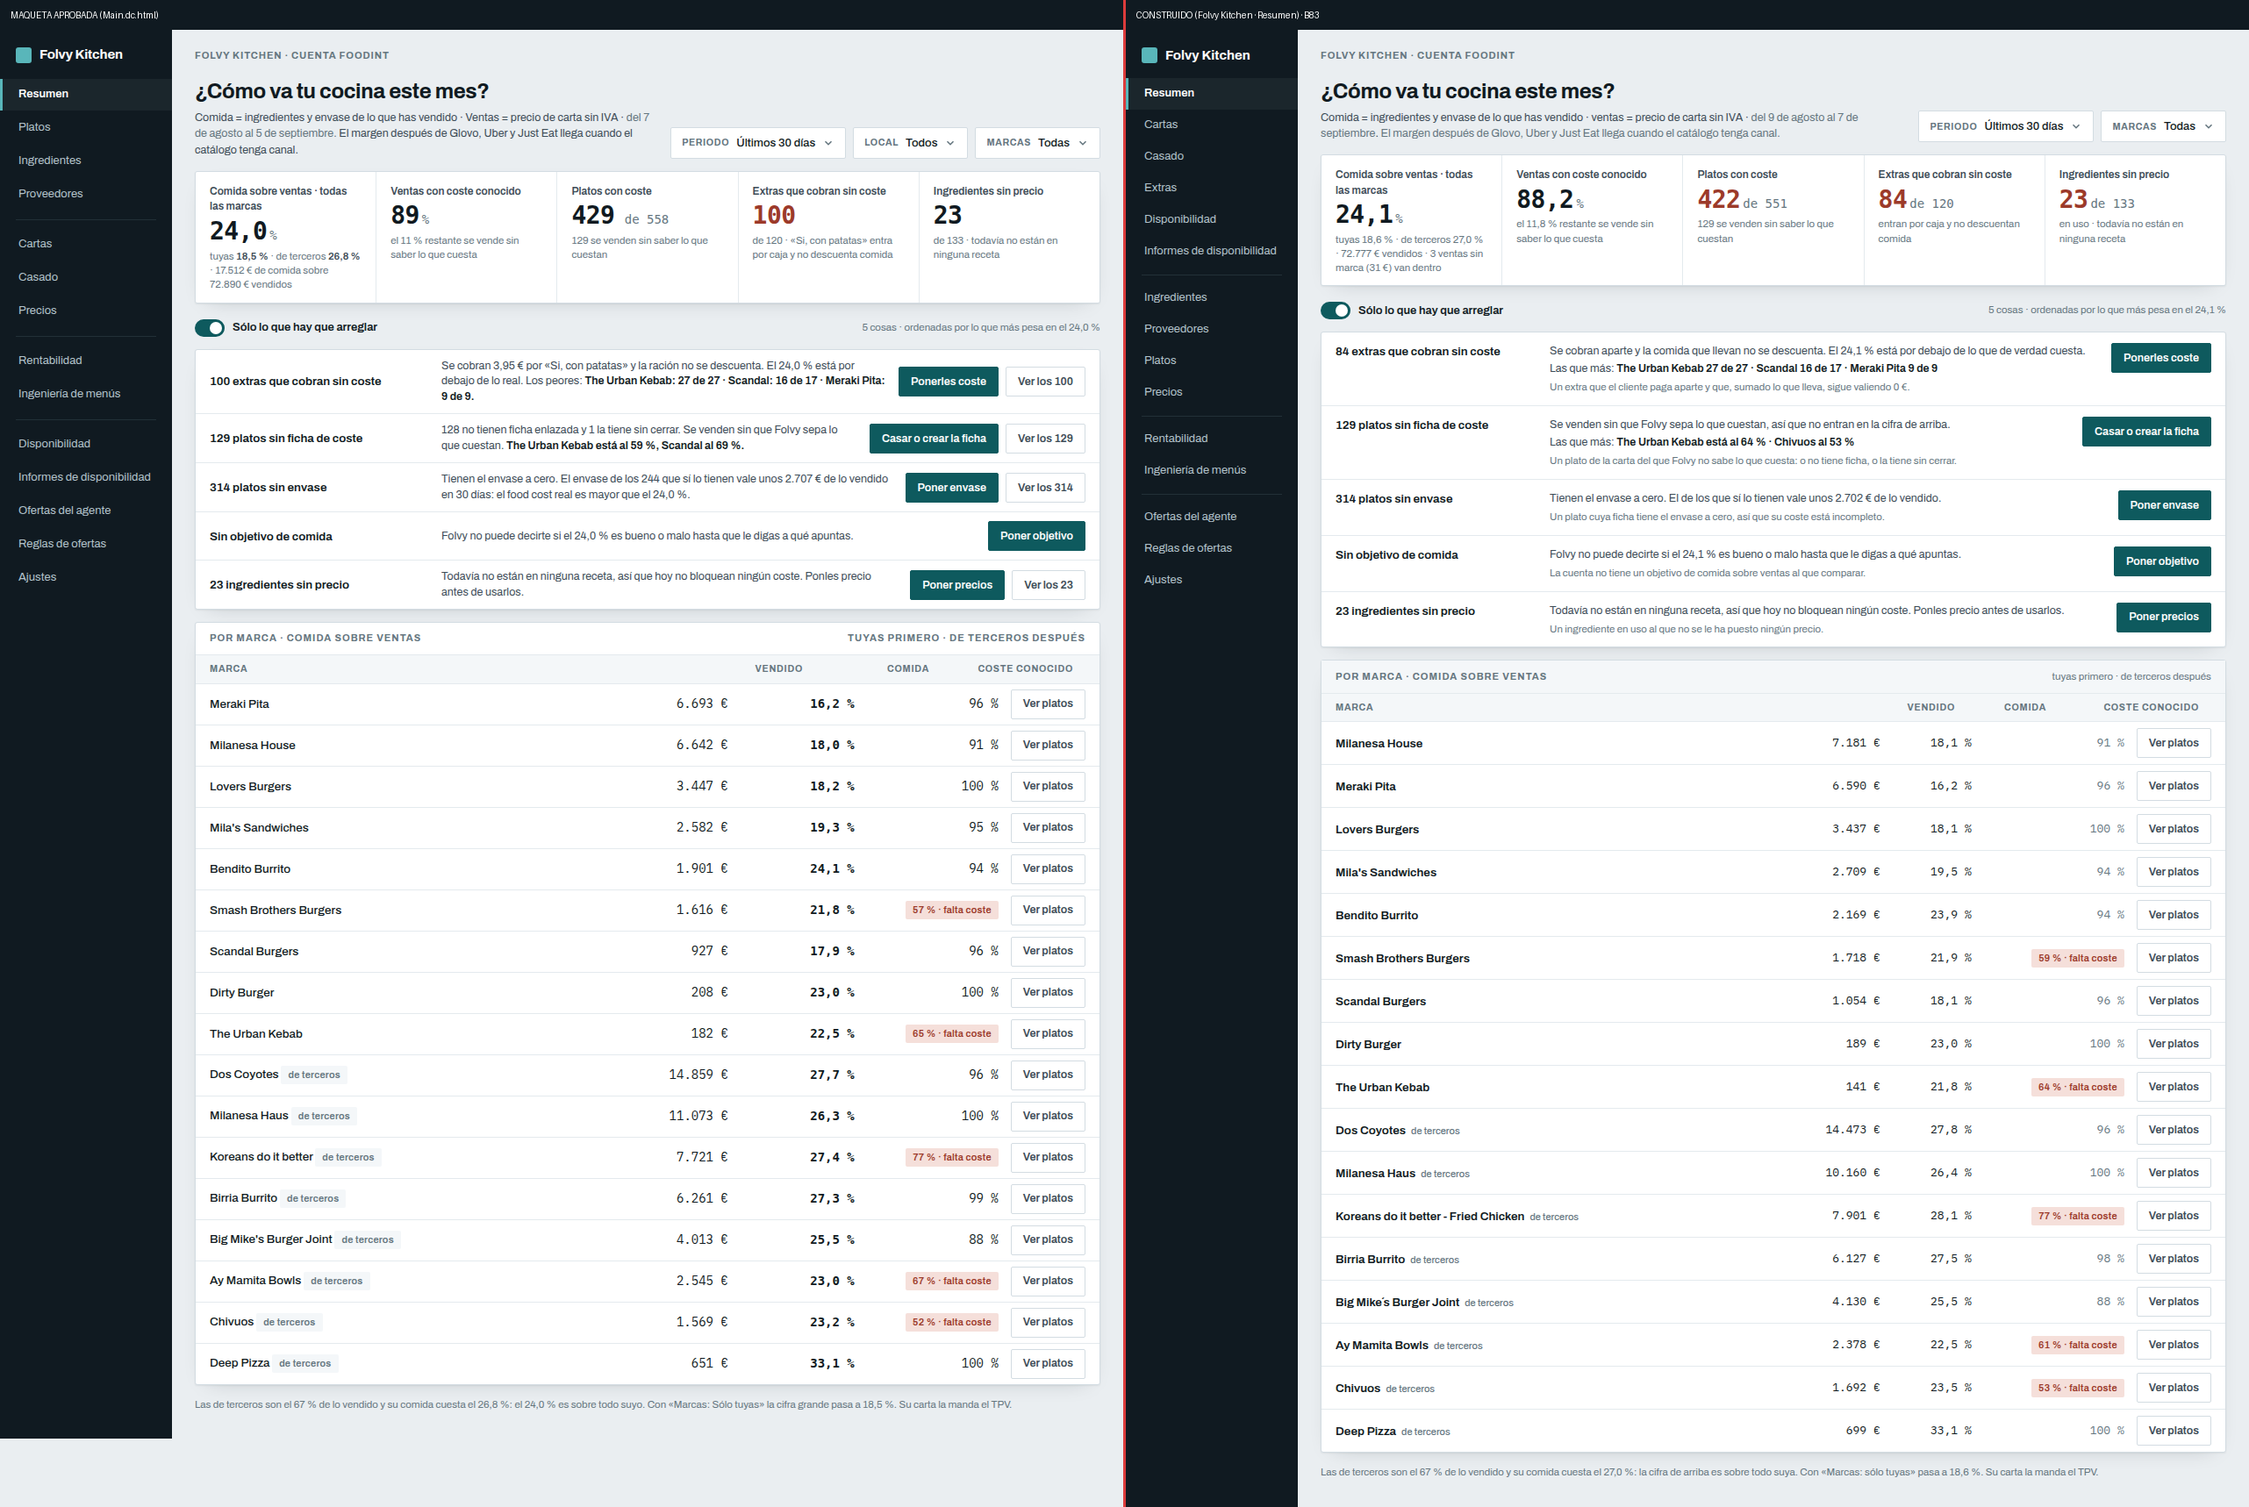
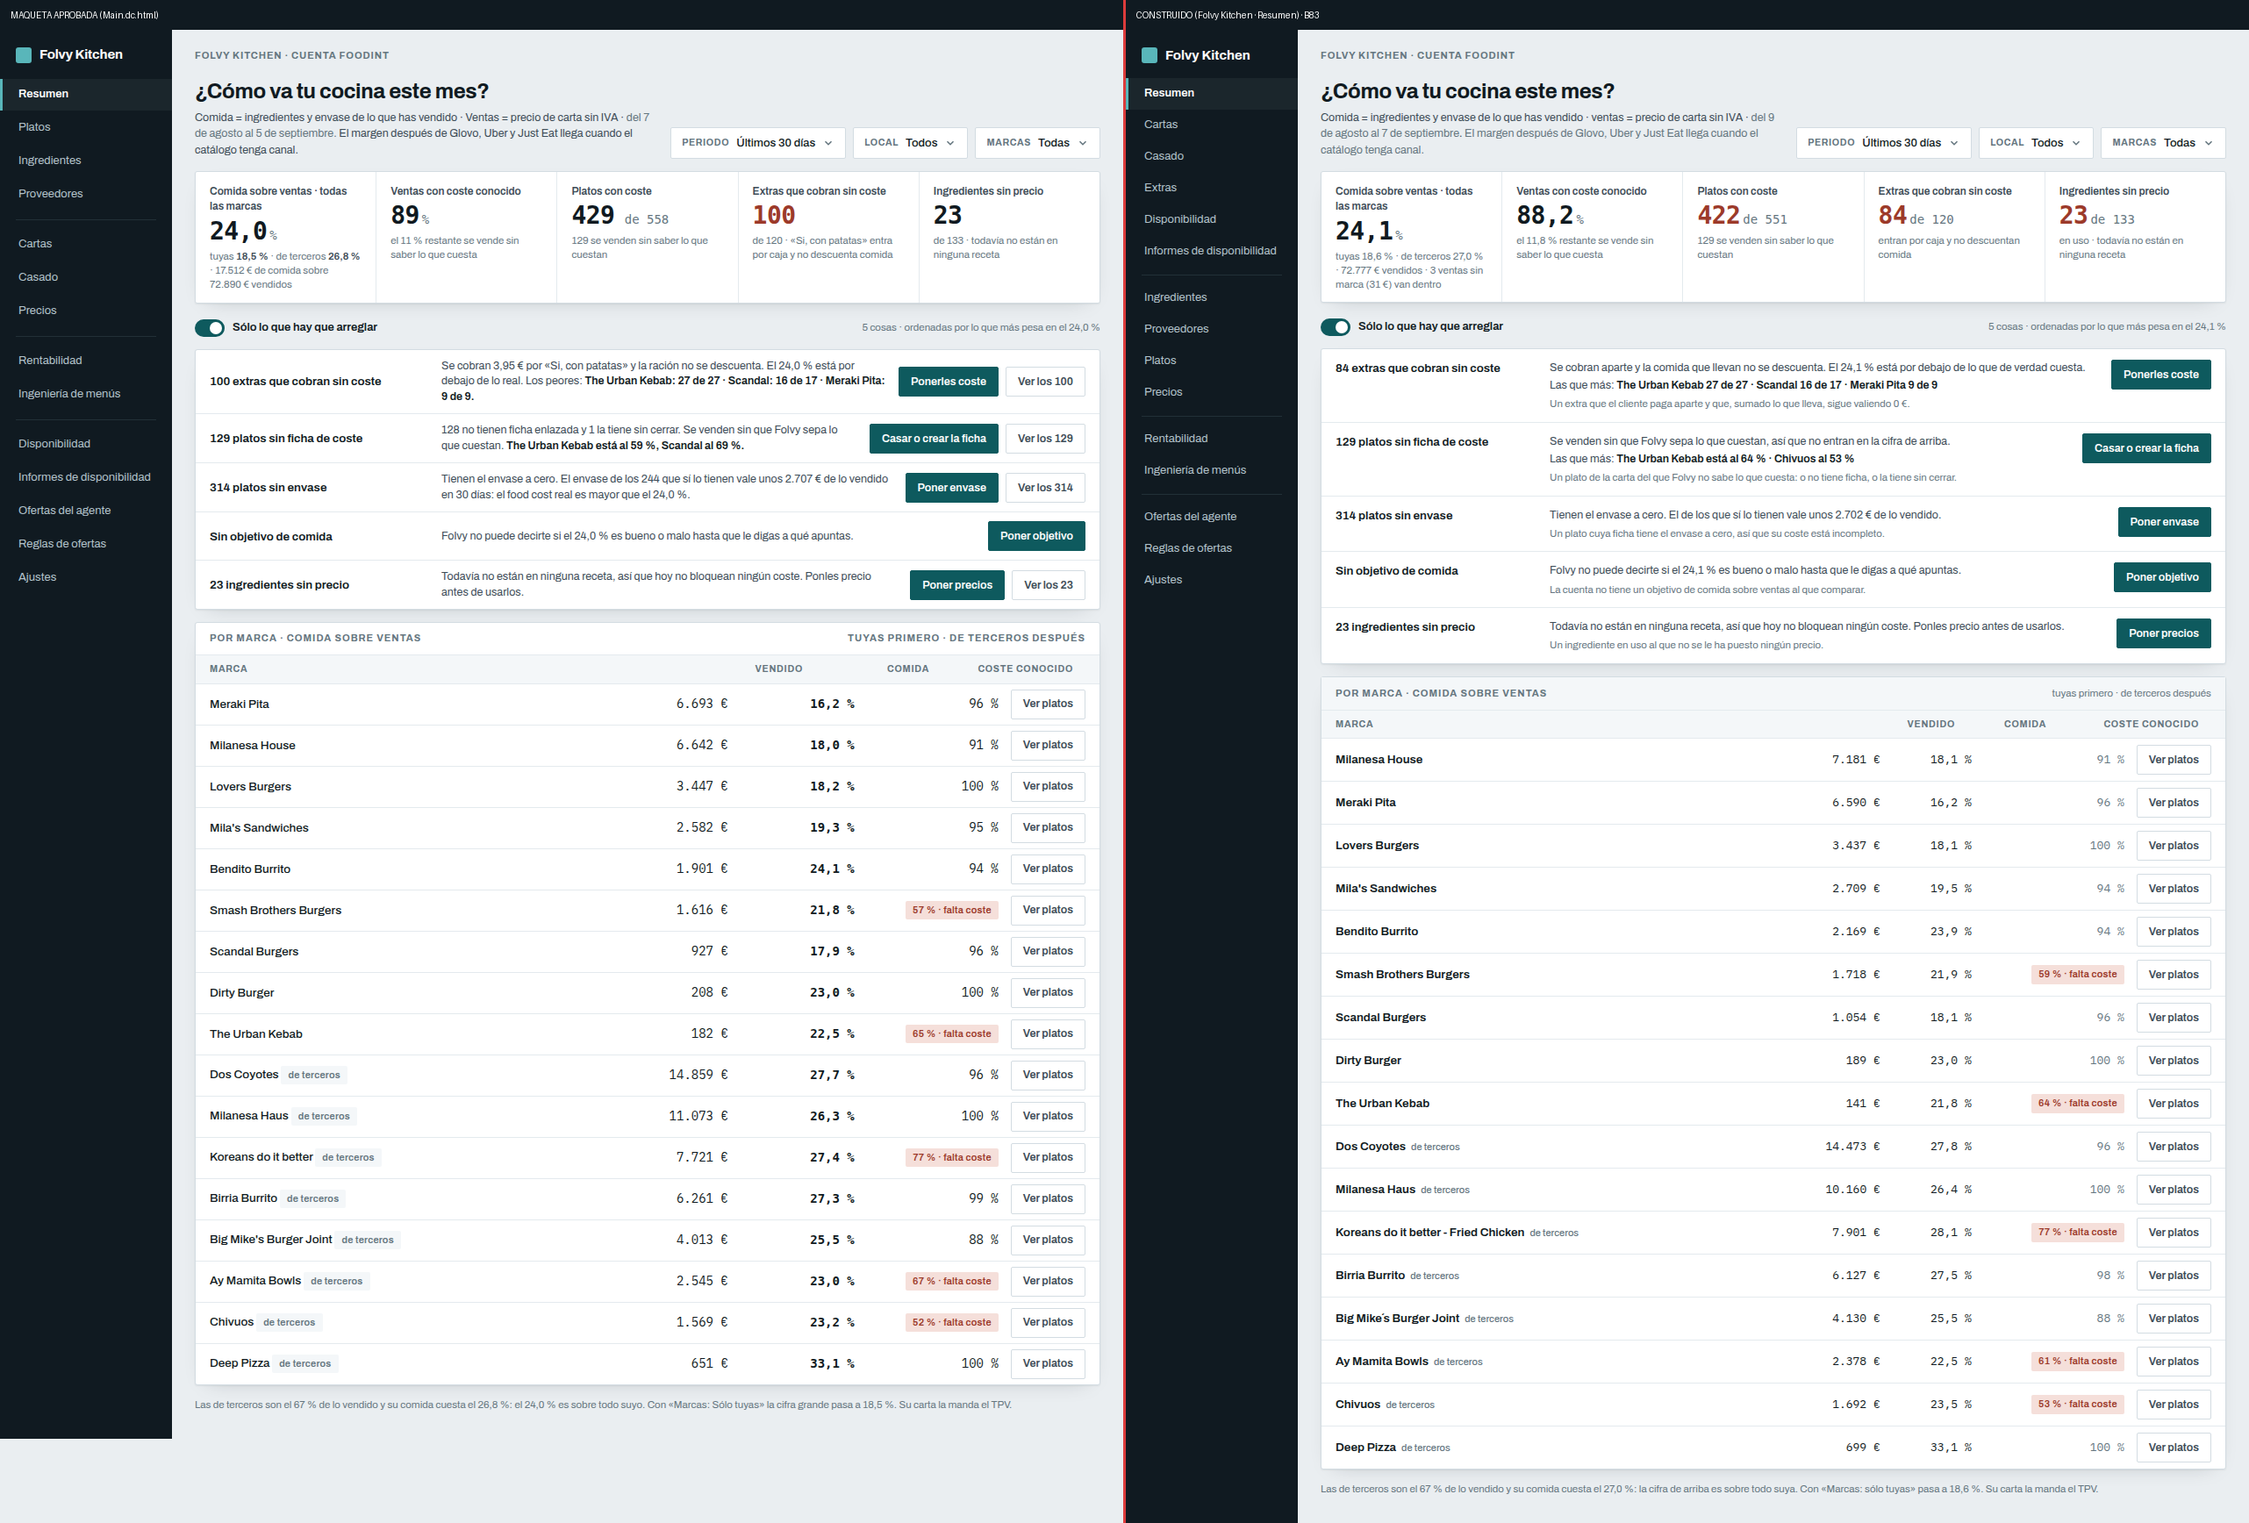
B83 · el selector de Local en el Resumen, cableado y medido
Decisión 1 de Julio (§3.18). Se pinta donde filtra de verdad, y sólo ahí.

MEDIDO ANTES DE CONSTRUIRLO, con dos cifras y la suma (regla 31):
  Todos        72.821 €  ·  24,1 %  ·  88,2 %
  Alcalá       46.192 €  ·  23,6 %  ·  88,7 %
  Carabanchel  26.629 €  ·  24,9 %  ·  87,4 %
46.192 + 26.629 = 72.821. El filtro filtra y la partición cuadra.

LA CONDICIÓN DE JULIO, QUE ES LO IMPORTANTE: lo que no depende del local no
cambia al elegirlo Y LO DICE. `kitchen_catalog_gaps` cuenta CATÁLOGO —un plato
sin ficha lo está en los dos locales— y ni acepta local ni cambiaría si lo
aceptase. Así que al elegir Alcalá, «Platos con coste», «Extras que cobran sin
coste», «Ingredientes sin precio» y las cinco filas añaden «· toda la cuenta».
Sin eso, ver el mismo «422 de 551» se lee como un filtro roto — y quien lo crea
roto dejará de fiarse también de las cifras que sí se han movido. Es la regla 7
del revés: no se esconde que algo NO se ha filtrado. Va en `lib/` y con prueba.

LA SEGUNDA CONDICIÓN DECIDE DÓNDE NO SE PINTA. Medido en la base:
· `food_cost_dashboard(p_account, p_from, p_to, p_location, p_brand)` → sí.
· `menu_item_economics(p_brand_id, p_service_type)` → NO.
· `menu_item_units_sold(p_brand_id, p_from, p_to)` → NO.
Rentabilidad e Ingeniería cuelgan de las dos últimas, así que allí el selector
NO se pinta: un control sin efecto es peor que su ausencia, y filtrarlo en el
navegador sería inventar un dato. Queda anotado como diferencia con el tablero
[…]

diff --git a/src/modules/kitchen/pages/KitchenDashboardPage.tsx b/src/modules/kitchen/pages/KitchenDashboardPage.tsx
@@ -45,7 +45,9 @@ import {
 } from '@/modules/kitchen/services/resumenDeCocinaService'
 import {
   cuantasResueltas, estaPendiente, pintaCosa, eurDeCocina, pctEnteroDeCocina,
+  loQueNoCambiaConElLocal,
 } from '@/modules/kitchen/lib/lasCosasQueArreglar'
+import { listLocations as listLocales } from '@/modules/kitchen/services/availabilityService'
 import { guardaPeriodoRecordado, leePeriodoRecordado } from '@/modules/kitchen/lib/recuerdoDeKitchen'
 import { intervaloDeFechas } from '@/modules/ventas/services/textoInforme'
 import { fmtInt, fmtPct } from '@/lib/format'
@@ -76,6 +78,12 @@ export default function KitchenDashboardPage() {
   // sale del almacén de Foodint y a su coste. «Sólo tuyas» es un filtro, nunca
   // una puerta.
   const [queMarcas, setQueMarcas] = useState<QueMarcas>('todas')
+  // ── B83 · EL LOCAL (decisión de Julio, 07/09) ────────────────────────────
+  // Lo pide el tablero y la consulta de ventas lo acepta, así que se cablea de
+  // verdad. Medido antes de construirlo: Alcalá 46.192 € · Carabanchel 26.629 €
+  // · Todos 72.821 € — suman exacto, así que el filtro filtra y no adorna.
+  const [local, setLocal] = useState<string>('')      // '' = todos
+  const [locales, setLocales] = useState<Array<{ id: string; name: string }>>([])
   const [soloPendiente, setSoloPendiente] = useState(true)
 
   const [comida, setComida] = useState<ComidaSobreVentas | null>(null)
@@ -91,6 +99,17 @@ export default function KitchenDashboardPage() {
   const peticion = useRef(0)
   useEffect(() => {
     if (!activeAccountId) return
+    let vigente = true
+    void listLocales(activeAccountId)
+      .then((ls) => { if (vigente) setLocales(ls) })
+      // Sin locales el selector no se pinta y la pantalla sigue: un filtro que
+      // no se ha podido cargar no puede tumbar el resumen entero.
+      .catch(() => { if (vigente) setLocales([]) })
+    return () => { vigente = false }
+  }, [activeAccountId])
+
+  useEffect(() => {
+    if (!activeAccountId) return
     const mia = ++peticion.current
     const hasta = new Date()
     const desde = new Date(hasta.getTime() - dias * 24 * 3600 * 1000)
@@ -101,7 +120,7 @@ export default function KitchenDashboardPage() {
       setError(null)
     })
     Promise.all([
-      getComidaSobreVentas({ accountId: activeAccountId, desde, hasta }),
+      getComidaSobreVentas({ accountId: activeAccountId, desde, hasta, locationId: local || null }),
       getLoQueFalta(activeAccountId),
     ])
       .then(([c, f]) => {
@@ -117,7 +136,7 @@ export default function KitchenDashboardPage() {
         setError(e instanceof Error ? e.message : 'Error cargando el resumen')
         setCargando(false)
       })
-  }, [activeAccountId, dias])
+  }, [activeAccountId, dias, local])
 
   // ── La cifra grande y su partición ───────────────────────────────────────
   const propias = comida?.porTipo.find((t) => t.tipo === 'own') ?? null
@@ -149,6 +168,14 @@ export default function KitchenDashboardPage() {
 
   // Contadores de catálogo para las cifras de arriba, sacados de las cosas para
   // no volver a preguntar lo mismo por otro camino.
+  // ── LO QUE NO CAMBIA AL ELEGIR LOCAL, Y LO DICE (condición de Julio) ──────
+  //
+  // `kitchen_catalog_gaps` cuenta CATÁLOGO, y el catálogo es de la cuenta: no
+  // acepta local y no cambiaría aunque lo aceptase. Sin decirlo, elegir Alcalá
+  // y ver el mismo «422 de 551» se lee como un filtro roto — y quien lo lea así
+  // dejará de fiarse también de las cifras que sí han cambiado.
+  const deTodaLaCuenta = loQueNoCambiaConElLocal(local)
+
   const cosaExtras = cosas.find((c) => c.clave === 'extras_que_cobran_sin_coste')
   const cosaSinFicha = cosas.find((c) => c.clave === 'platos_en_carta_sin_coste')
   const cosaIngredientes = cosas.find((c) => c.clave === 'ingredientes_sin_precio')
@@ -188,6 +215,20 @@ export default function KitchenDashboardPage() {
               <option value="365">Último año</option>
             </select>
           </CampoCocina>
+          {/* Sólo si hay más de uno: un selector con una sola opción es un
+              control que no hace nada. */}
+          {locales.length > 1 && (
+            <CampoCocina label="Local">
+              <select
+                value={local}
+                onChange={(e) => setLocal(e.target.value)}
+                className="text-[13px] font-medium text-cocina-tinta"
+              >
+                <option value="">Todos</option>
+                {locales.map((l) => <option key={l.id} value={l.id}>{l.name}</option>)}
+              </select>
+            </CampoCocina>
+          )}
           <CampoCocina label="Marcas">
             <select
               value={queMarcas}
@@ -239,18 +280,18 @@ export default function KitchenDashboardPage() {
                 titulo="Platos con coste"
                 valor={cosaSinFicha ? String((cosaSinFicha.de ?? 0) - cosaSinFicha.n) : '—'}
                 sufijo={cosaSinFicha ? `de ${cosaSinFicha.de ?? 0}` : undefined}
-                pie={cosaSinFicha && cosaSinFicha.n > 0
+                pie={(cosaSinFicha && cosaSinFicha.n > 0
                   ? `${cosaSinFicha.n} se venden sin saber lo que cuestan`
-                  : 'todos los de la carta tienen ficha con coste'}
+                  : 'todos los de la carta tienen ficha con coste') + deTodaLaCuenta}
                 tono={(cosaSinFicha?.n ?? 0) > 0 ? 'malo' : undefined}
               />
               <CifraCocina
                 titulo="Extras que cobran sin coste"
                 valor={cosaExtras ? String(cosaExtras.n) : '—'}
                 sufijo={cosaExtras ? `de ${cosaExtras.de ?? 0}` : undefined}
-                pie={cosaExtras && (cosaExtras.venden ?? 0) > 0
+                pie={(cosaExtras && (cosaExtras.venden ?? 0) > 0
                   ? `${cosaExtras.venden} se han vendido y no descuentan comida`
-                  : 'entran por caja y no descuentan comida'}
+                  : 'entran por caja y no descuentan comida') + deTodaLaCuenta}
                 tono={(cosaExtras?.n ?? 0) > 0 ? 'malo' : undefined}
               />
               <CifraCocina
@@ -258,7 +299,7 @@ export default function KitchenDashboardPage() {
                 valor={cosaIngredientes ? String(cosaIngredientes.n) : '—'}
                 sufijo={cosaIngredientes ? `de ${cosaIngredientes.de ?? 0}` : undefined}
                 pie={cosaIngredientes
-                  ? `en uso${cosaIngredientes.usadosEnLineasDeReceta === 0 ? ' · todavía no están en ninguna receta' : ''}`
+                  ? `en uso${cosaIngredientes.usadosEnLineasDeReceta === 0 ? ' · todavía no están en ninguna receta' : ''}${deTodaLaCuenta}`
                   : '—'}
                 tono={(cosaIngredientes?.n ?? 0) > 0 ? 'malo' : undefined}
               />
@@ -271,6 +312,8 @@ export default function KitchenDashboardPage() {
               </InterruptorCocina>
               <span className="text-[11.5px] text-cocina-tinta-3 leading-[1.5]">
                 {cosasVisibles.length} {cosasVisibles.length === 1 ? 'cosa' : 'cosas'} · ordenadas por lo que más pesa en el {pct(cifraGrande)}
+                {/* Las cinco son de catálogo: tampoco cambian con el local. */}
+                {local && ' · de toda la cuenta'}
                 {/* El filtro decide el ORDEN y la ETIQUETA, nunca la EXISTENCIA:
                     si deja algo fuera, lo dice (regla 7). */}
                 {soloPendiente && resueltas > 0 && (

diff --git a/tests/unit/modules/kitchen/lasCosasQueArreglar.test.ts b/tests/unit/modules/kitchen/lasCosasQueArreglar.test.ts
@@ -2,6 +2,7 @@ import { describe, it, expect } from 'vitest'
 import {
   pintaCosa, estaPendiente, cuantasResueltas, rutaDe, RUTAS_DE_KITCHEN,
   type CosaMedida, type ClaveDeCosa,
+  loQueNoCambiaConElLocal, eurDeCocina, pctEnteroDeCocina,
 } from '@/modules/kitchen/lib/lasCosasQueArreglar'
 
 // B79 · lote 4. LAS CINCO COSAS DEL RESUMEN: que cada botón tenga destino, y que
@@ -283,5 +284,44 @@ describe('las definiciones que hoy devuelve producción', () => {
   it('cada definición trae su regla técnica: son seis y seis', () => {
     expect(DEFINICIONES_DE_PRODUCCION).toHaveLength(6)
     expect(REGLAS_TECNICAS_DE_PRODUCCION).toHaveLength(6)
+  })
+})
+
+// ── B83 · un filtro que no afecta a una cifra lo dice ──────────────────────
+// Condición de Julio al aprobar el selector de local: lo que no depende del
+// local no cambia al elegirlo Y LO DICE. Sin eso, elegir Alcalá y ver el mismo
+// «422 de 551» parece un filtro roto — y quien lo crea roto dejará de fiarse
+// también de las cifras que sí han cambiado. Medido antes de construirlo:
+// Alcalá 46.192 € y Carabanchel 26.629 € sobre 72.821 € (suman exacto), así que
+// las de VENTAS sí se mueven y sólo las de CATÁLOGO se quedan igual.
+describe('lo que no cambia al elegir un local', () => {
+  it('con un local elegido, lo dice', () => {
+    expect(loQueNoCambiaConElLocal('38158159-cd71-4056-950b-53425afac1ce')).toBe(' · toda la cuenta')
+  })
+  it('sin local no dice nada: en «Todos» la coletilla sería ruido', () => {
+    expect(loQueNoCambiaConElLocal('')).toBe('')
+    expect(loQueNoCambiaConElLocal(null)).toBe('')
+    expect(loQueNoCambiaConElLocal(undefined)).toBe('')
+  })
+})
+
+// ── B83 · los euros de Kitchen agrupan siempre ────────────────────────────
+// `toLocaleString('es-ES')` NO agrupa los números de cuatro cifras, así que en
+// la misma columna salía «7181 €» junto a «14.473 €». Medido, no supuesto.
+describe('los euros del módulo', () => {
+  it('agrupa también las cuatro cifras, que es donde falla el formato común', () => {
+    expect(eurDeCocina(7181)).toBe('7.181 €')
+    expect(eurDeCocina(14473)).toBe('14.473 €')
+    expect(eurDeCocina(699)).toBe('699 €')
+  })
+  it('sin dato, una raya: no un cero que parezca una medida', () => {
+    expect(eurDeCocina(null)).toBe('—')
+    expect(eurDeCocina(undefined)).toBe('—')
+  })
+  // La cobertura va entera: un decimal ahí no dice nada que el entero no diga.
+  it('la cobertura se redondea a entero, como el tablero', () => {
+    expect(pctEnteroDeCocina(96.2)).toBe('96 %')
+    expect(pctEnteroDeCocina(59.4)).toBe('59 %')
+    expect(pctEnteroDeCocina(null)).toBe('—')
   })
 })

diff --git a/src/modules/kitchen/lib/lasCosasQueArreglar.ts b/src/modules/kitchen/lib/lasCosasQueArreglar.ts
@@ -210,3 +210,20 @@ export function pctEnteroDeCocina(v: number | null | undefined): string {
   if (v == null || !Number.isFinite(Number(v))) return '—'
   return `${Math.round(Number(v))} %`
 }
+
+/**
+ * LA COLETILLA DE LO QUE NO CAMBIA AL ELEGIR UN LOCAL (B83, condición de Julio).
+ *
+ * Las cifras de catálogo salen de `kitchen_catalog_gaps`, que cuenta la CUENTA:
+ * no acepta local y no cambiaría aunque lo aceptase — un plato sin ficha lo está
+ * en los dos sitios. Sin decirlo, elegir Alcalá y ver el mismo «422 de 551» se
+ * lee como un filtro roto; y quien lo lea así dejará de fiarse también de las
+ * cifras que sí han cambiado. Es la regla 7 vista del revés: no se esconde que
+ * algo NO se ha filtrado.
+ *
+ * Devuelve cadena vacía cuando no hay local elegido: sin filtro no hay nada que
+ * matizar, y la coletilla en «Todos» sería ruido.
+ */
+export function loQueNoCambiaConElLocal(localElegido: string | null | undefined): string {
+  return localElegido ? ' · toda la cuenta' : ''
+}

diff --git a/tests/unit/modules/kitchen/capturaResumen.test.tsx b/tests/unit/modules/kitchen/capturaResumen.test.tsx
@@ -107,6 +107,7 @@ it('genera la captura del Resumen a 1280', () => {
             <span className="text-cocina-tinta-3">El margen después de Glovo, Uber y Just Eat llega cuando el catálogo tenga canal.</span></>}
         >
           <CampoCocina label="Periodo"><span>Últimos 30 días</span></CampoCocina>
+          <CampoCocina label="Local"><span>Todos</span></CampoCocina>
           <CampoCocina label="Marcas"><span>Todas</span></CampoCocina>
         </CabeceraCocina>
 
